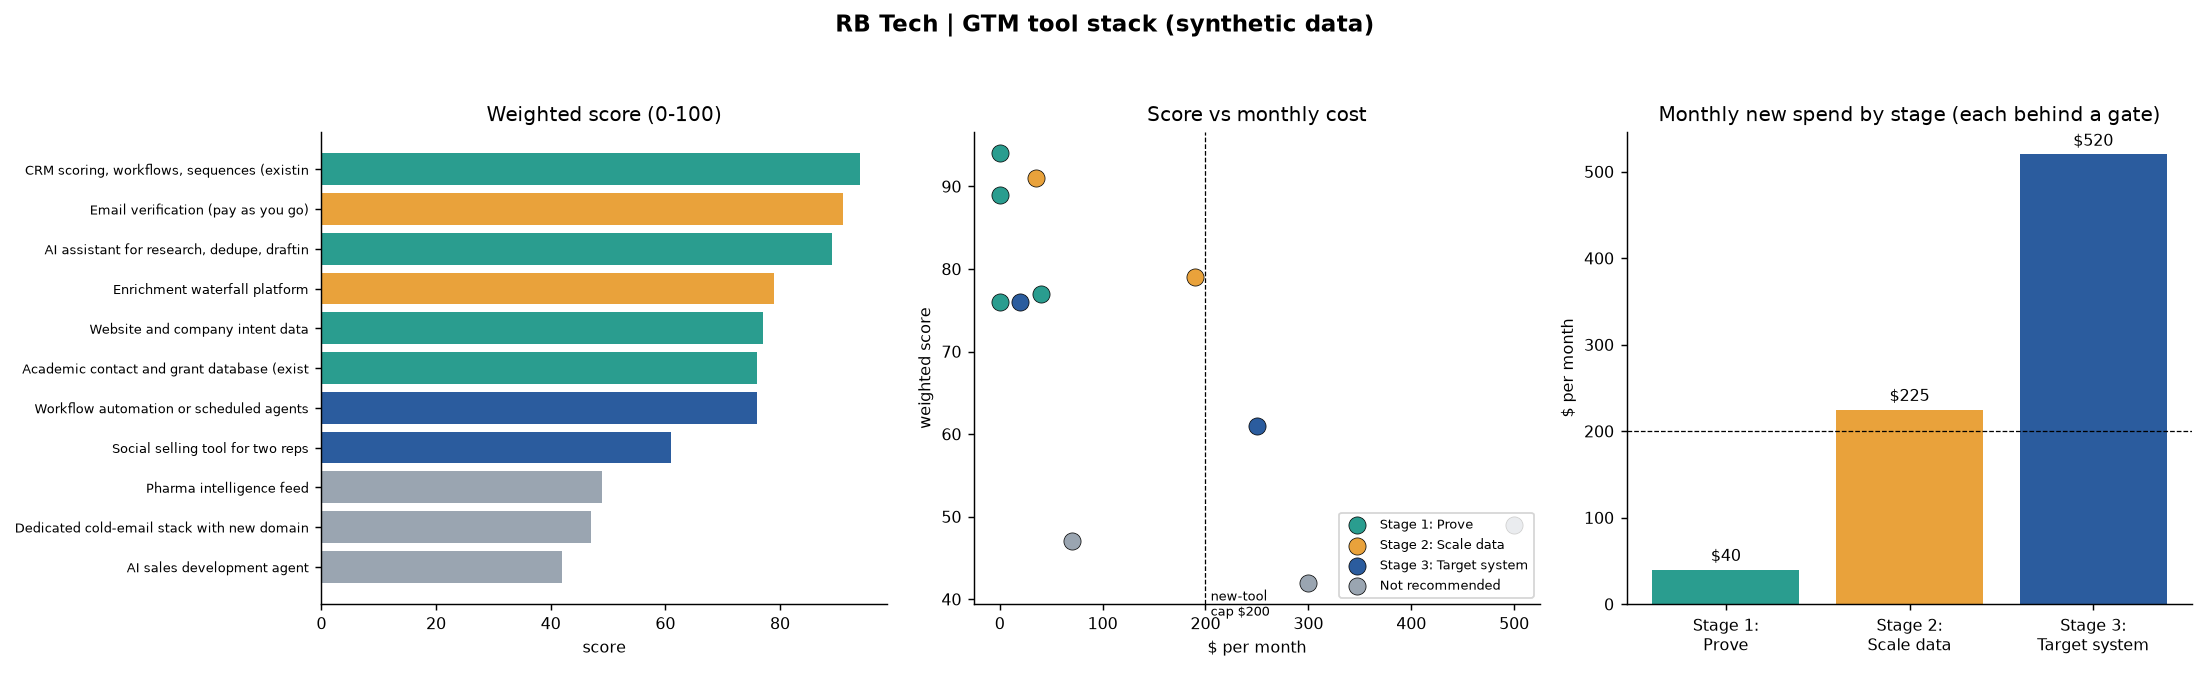
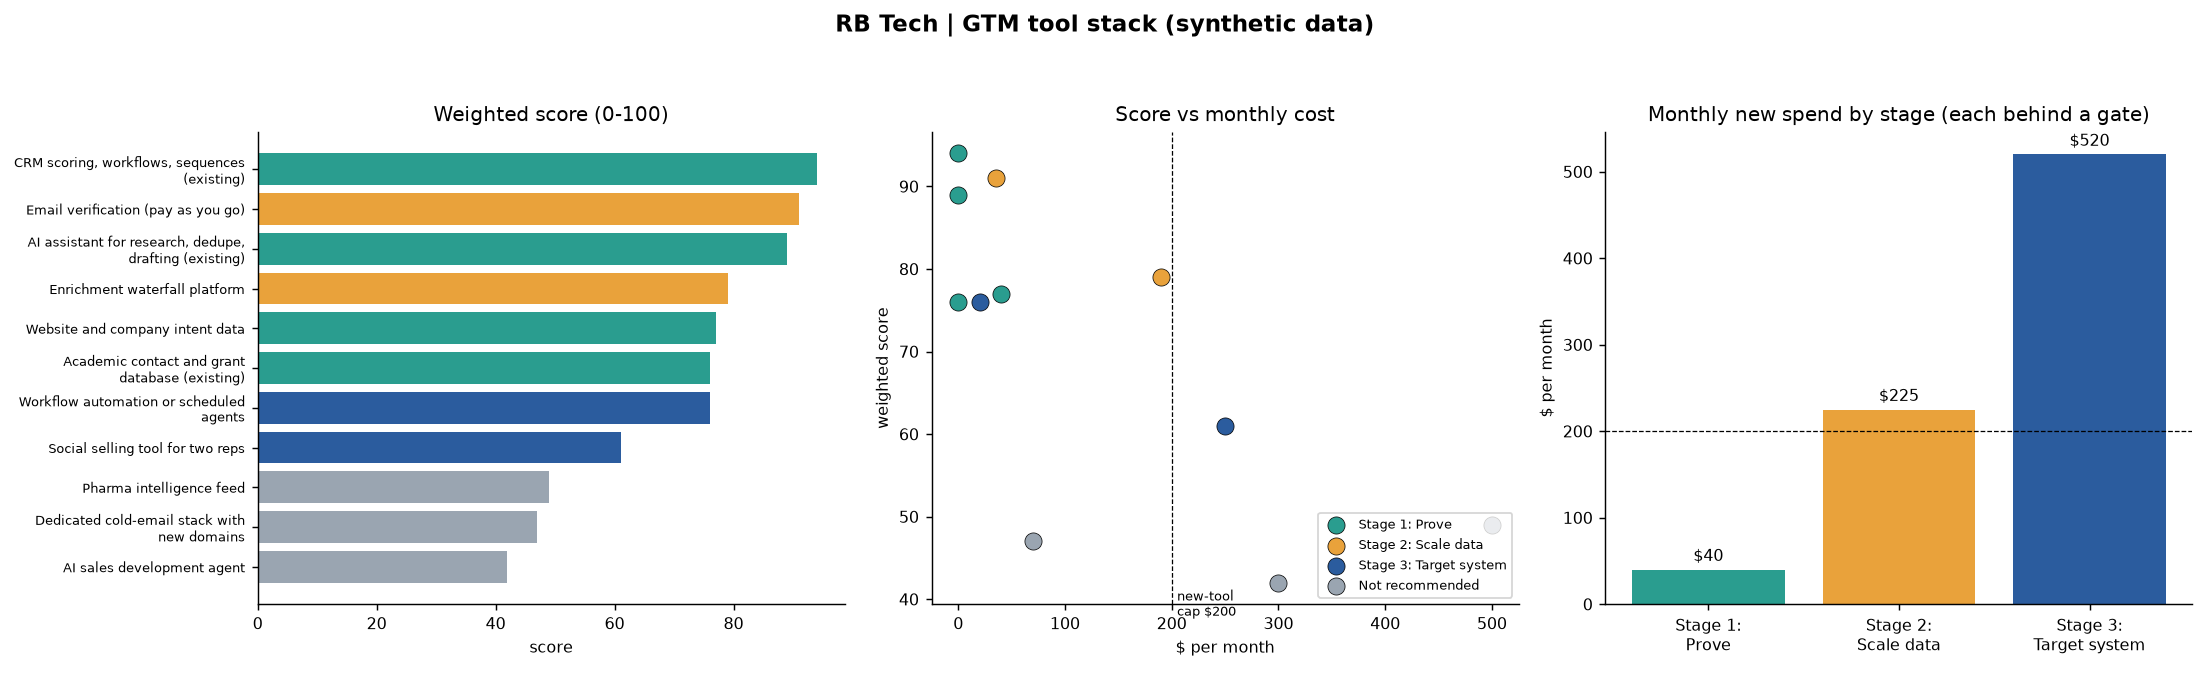
Clearer chart labels in 03 and GTM 06

diff --git a/06-tool-stack/scripts/tool_stack.py b/06-tool-stack/scripts/tool_stack.py
@@ -69,7 +69,8 @@ COL = {"Stage 1: Prove": TEAL, "Stage 2: Scale data": GOLD, "Stage 3: Target sys
 fig, ax = plt.subplots(1, 3, figsize=(17, 5.2))
 fig.suptitle("RB Tech | GTM tool stack (synthetic data)", fontsize=13, weight="bold")
 d = df.sort_values("weighted_score")
-ax[0].barh([t[:42] for t in d.tool], d.weighted_score, color=[COL[s] for s in d.stage])
+import textwrap
+ax[0].barh([textwrap.fill(t, 34) for t in d.tool], d.weighted_score, color=[COL[s] for s in d.stage])
 ax[0].set(title="Weighted score (0-100)", xlabel="score")
 ax[0].tick_params(axis="y", labelsize=7)
 for s, c in COL.items():
